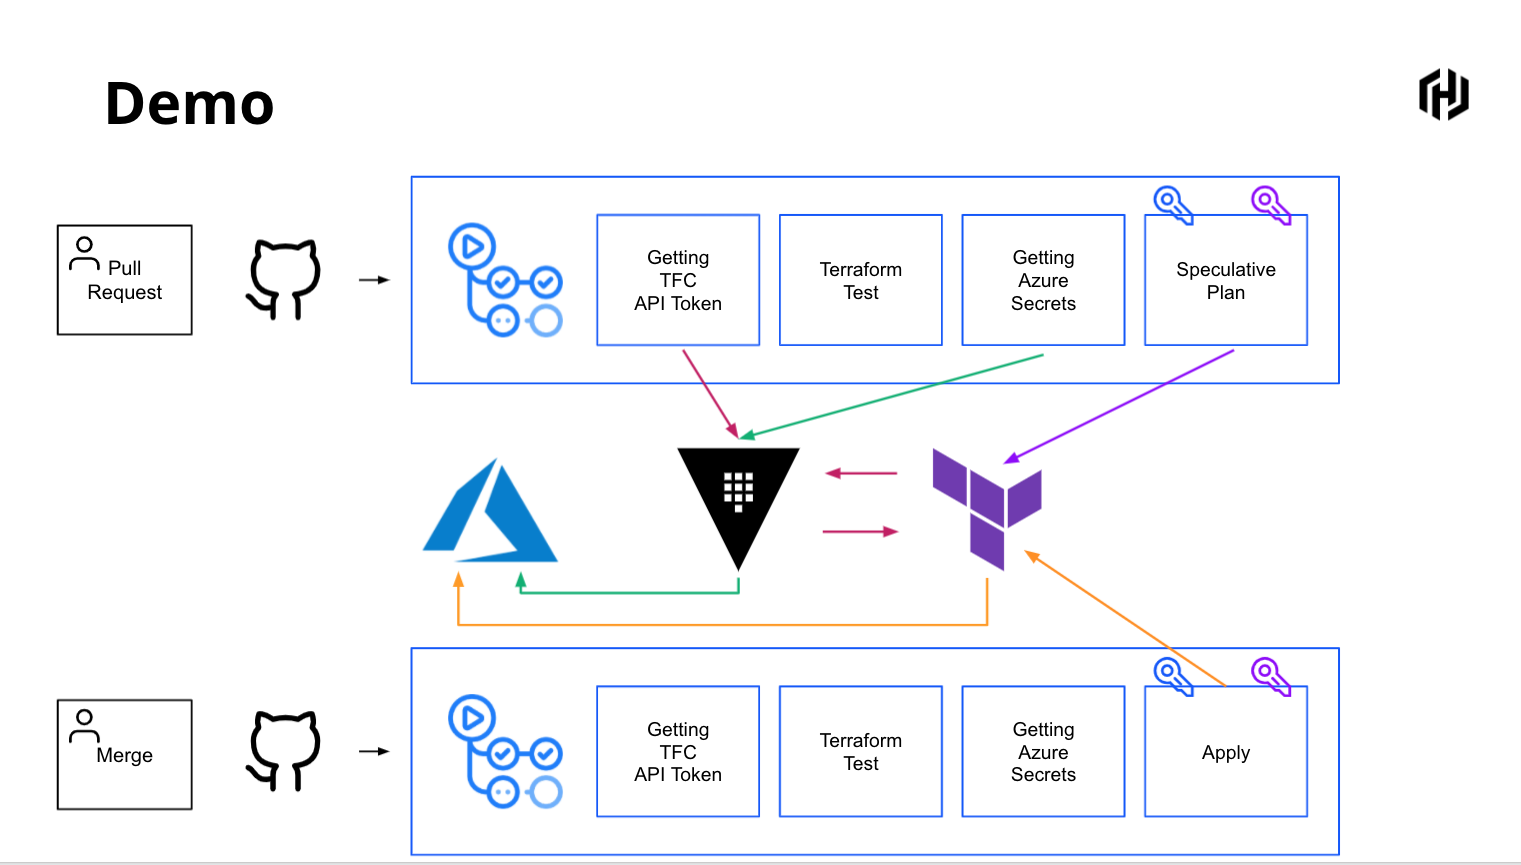
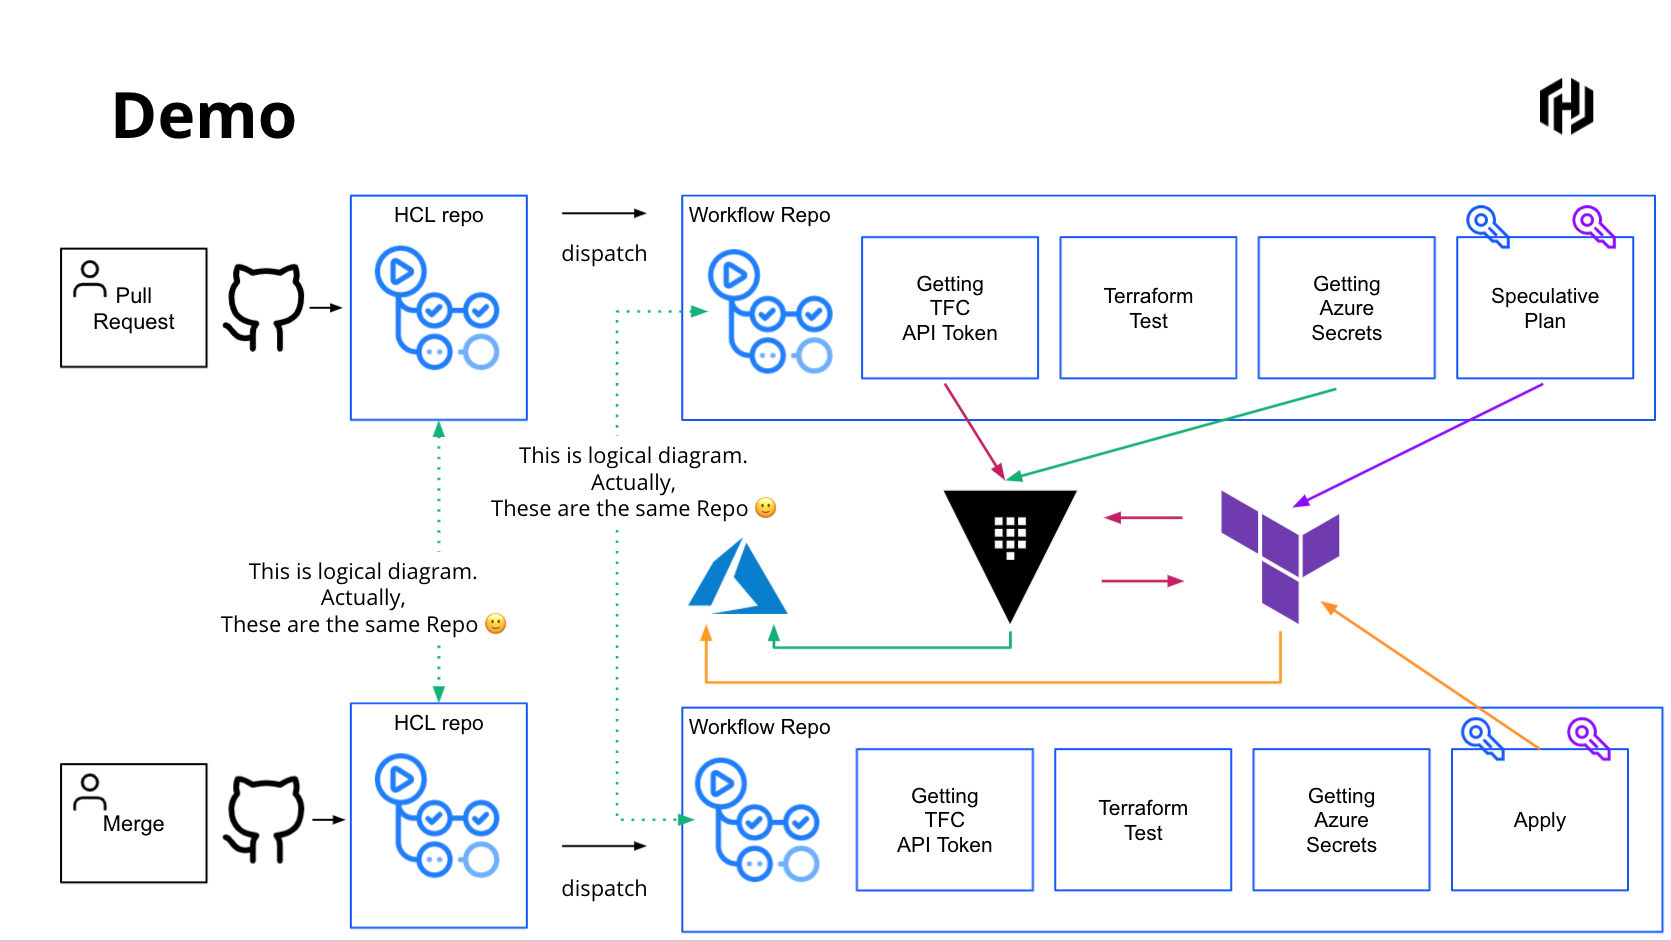
readme

diff --git a/README.md b/README.md
@@ -1,5 +1,8 @@
 ![](pic.png)
 
+HCL Repo: https://github.com/tkaburagi/tf-vault-github-actions-src
+Workflow Repo: https://github.com/tkaburagi/tf-vault-github-actions-workflow
+
 ## preparation
 
 ### Vault Setup
@@ -21,7 +24,7 @@ vault policy write azure-read policy.hcl
 vault token create -policy azure-read -orphan
 ```
 
-### GitHub Setup
+### GitHub Setup (Workflow Repo)
 ```
 curl \
   --header "Authorization: Bearer $TOKEN" \
